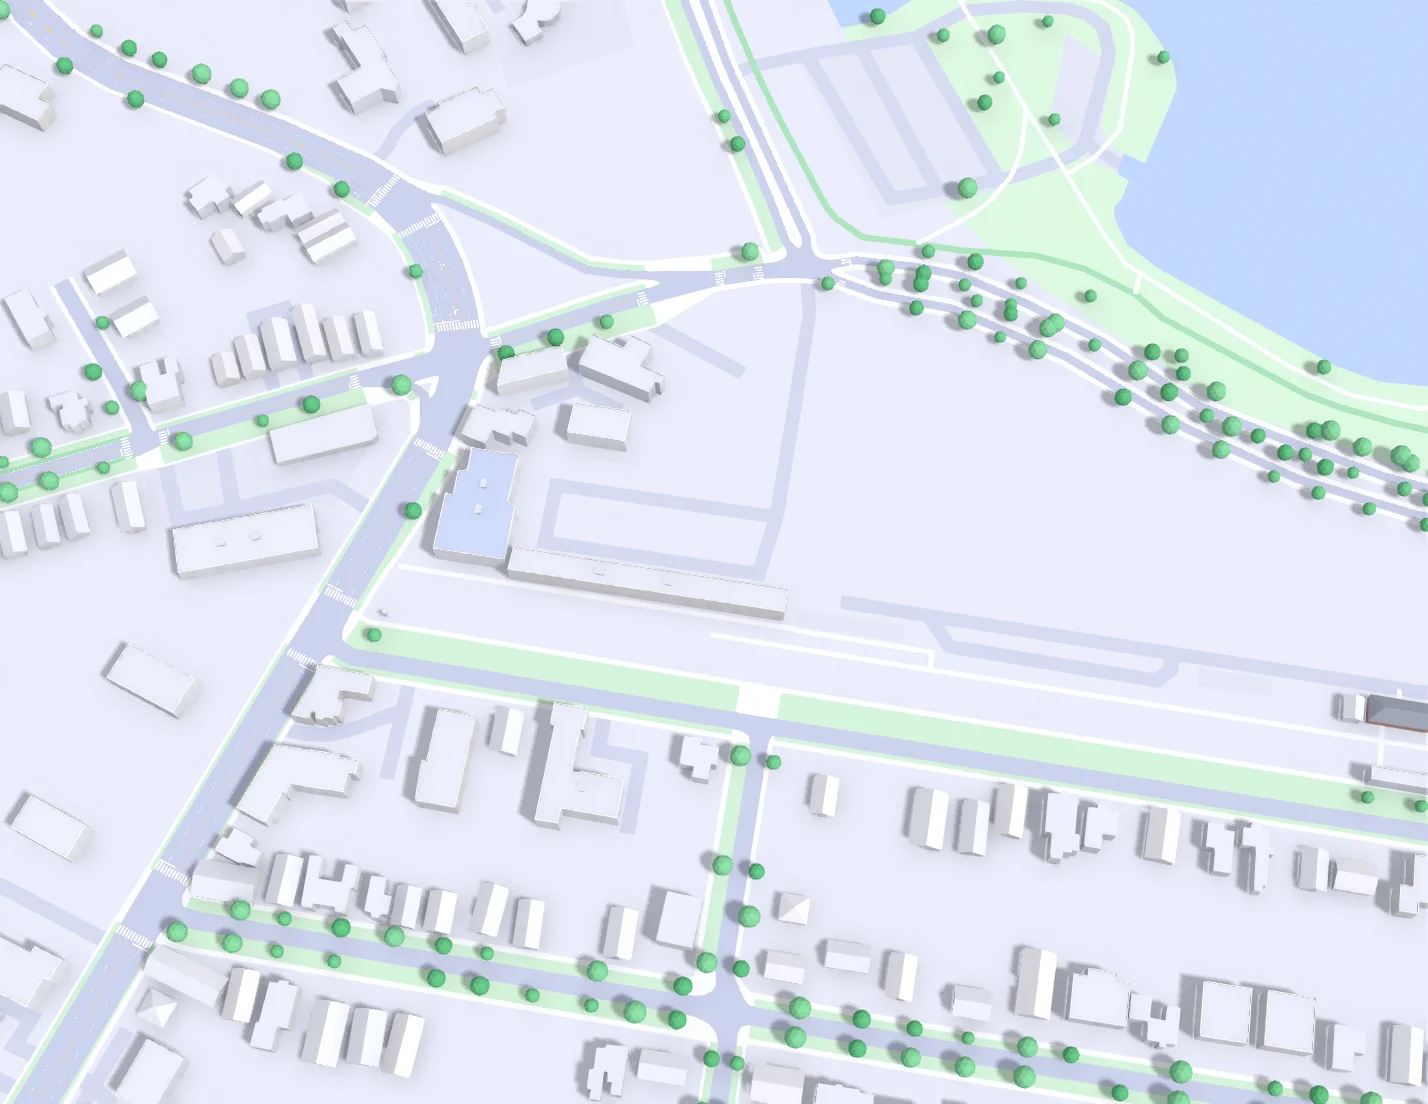
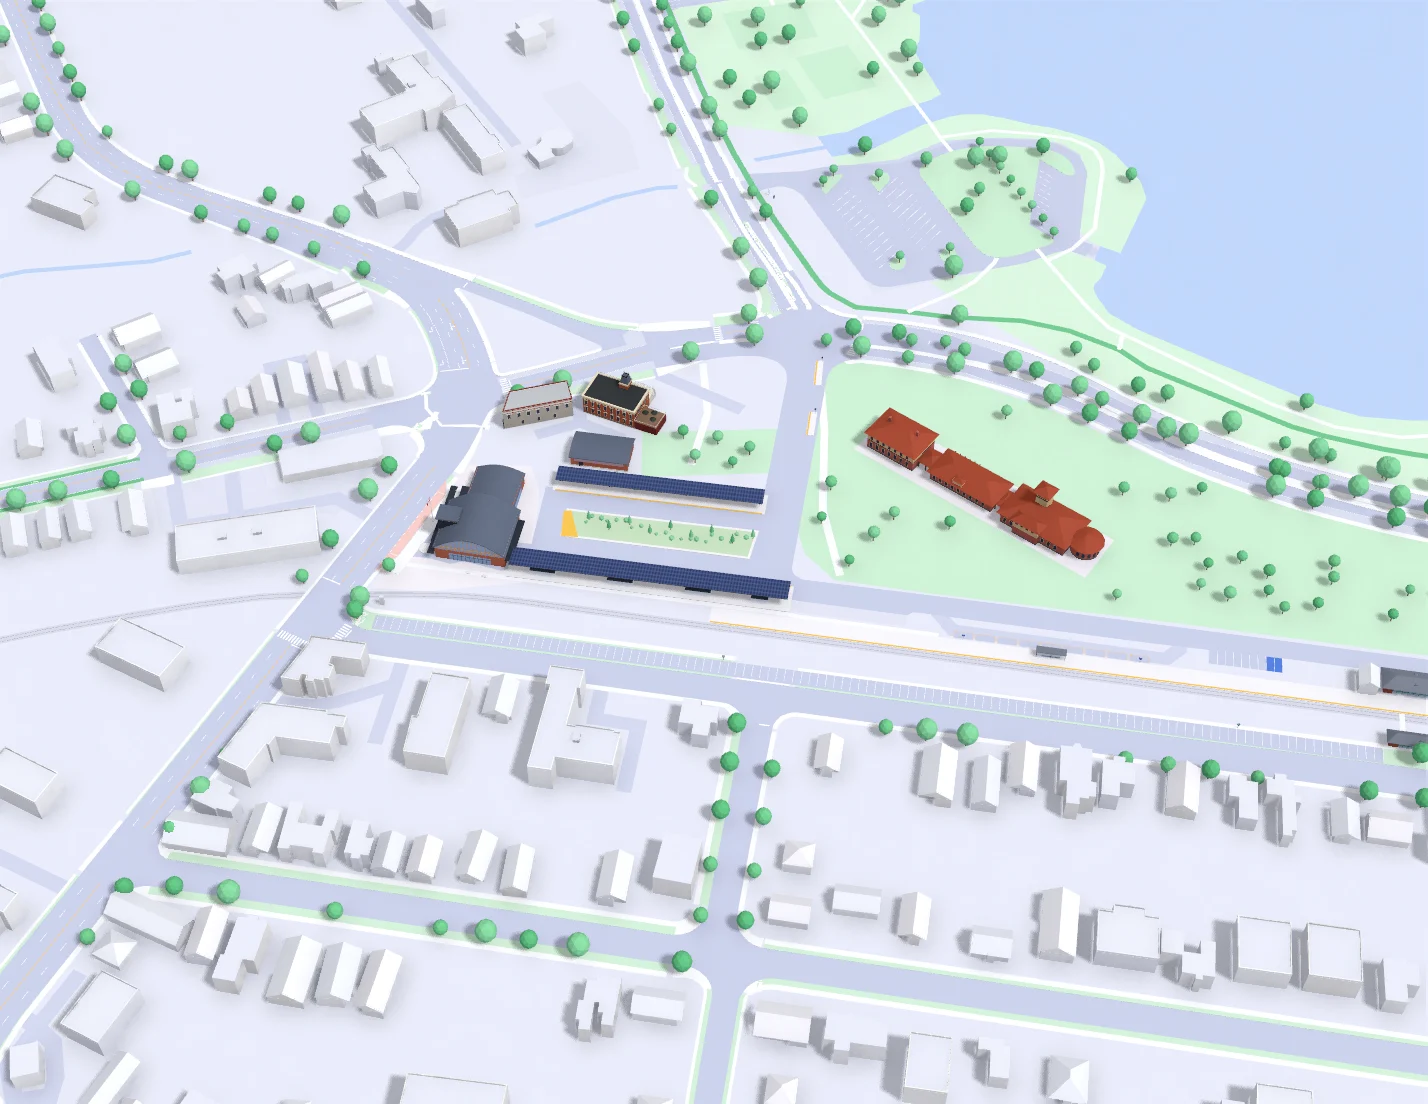
feat(platform): 3D simulator basemap for the terminal TV map
Recaptured the /platform.map base map from the Barrie Simulator at a 40 degree
tilt (north still up), so the TV shows the hand-built terminal, its neighbours,
lawns, Gowan parking and the Essa layby in 3D. The perspective calibration keeps
every pin, label and live vehicle on the ground; Stop 14 and the pick-up point
stay in view at the existing 0.35 m/px.

- capture script: --tilt option, simulator street names hidden (the TV draws its own)
- "You are here" is the red dot only; a ground outline sits beside a 3D building
- the pick-up card now sits above its point with a stem, so the lay-by stays visible

diff --git a/scripts/capture-platform-basemap.js b/scripts/capture-platform-basemap.js
@@ -6,9 +6,11 @@
 // The simulator is a separate project (mike_apps/Barrie-Simulator). Start its
 // dev server first (`npm run dev` there), then run:
 //
-//   node scripts/capture-platform-basemap.js [--url http://localhost:5173/] [--heading 0]
+//   node scripts/capture-platform-basemap.js [--url http://localhost:5173/] [--heading 0] [--tilt 0]
 //
 // heading = compass direction shown at the top of the map (0 = north up).
+// tilt = camera angle from straight down, in degrees, for a 3D view (0 = as far down as the
+// simulator allows; it clamps to about 20). The calibration is a perspective fit either way.
 // The script only moves the simulator's camera and hides its own buses, routes
 // and stops in the browser; it changes nothing in the simulator project.
 //
@@ -30,13 +32,15 @@ const option = (name, fallback) => {
 const WIDTH = 1428;
 const HEIGHT = 1104;
 // About 14% closer than the former Leaflet zoom 18.1 (0.3985 m/px). Closer than
-// this pushes Stop 14 or the passenger pick-up point off the visible map.
+// this pushes Stop 14 or the passenger pick-up point off the visible map (they are
+// about 300 m apart east to west), in the top-down and the 3D (--tilt 40) view alike.
 const METRES_PER_PIXEL = 0.35;
 // Plane centre. Shifted slightly east of the platforms so Stop 14 (west) and the
 // pick-up point (east) both stay inside the visible part of the plane.
 const CENTER = { lat: 44.373974, lon: -79.689174 };
 const SIM_URL = option('url', 'http://localhost:5173/');
 const HEADING = Number(option('heading', '0'));
+const TILT = Number(option('tilt', '0'));
 const OUT_DIR = path.join(__dirname, '..', 'frontend', 'src', 'platform-map');
 
 // Inputs are offsets from the map centre scaled by INPUT_SCALE (about 10 m per unit)
@@ -99,7 +103,7 @@ function applyHomography(h, u, v) {
   await page.waitForFunction(() => window.__controls && window.__controls.current && window.__store, null, { timeout: 90000 });
   await page.waitForTimeout(6000);
   await page.evaluate(() => window.__store.setState((state) => ({
-    layers: { ...state.layers, buses: false, transit: false, stops: false, designRoutes: false, changes: false, landmarks: true },
+    layers: { ...state.layers, buses: false, transit: false, stops: false, designRoutes: false, changes: false, landmarks: true, streetNames: false },
   })));
   await page.addStyleTag({ content: 'body * { visibility: hidden !important; } canvas { visibility: visible !important; }' });
 
@@ -119,7 +123,7 @@ function applyHomography(h, u, v) {
     await page.waitForTimeout(1500);
   }
 
-  await page.evaluate(({ center, mpp, height, headingDeg }) => {
+  await page.evaluate(({ center, mpp, height, headingDeg, tiltDeg }) => {
     const R = 6371008.8;
     const DEG = Math.PI / 180;
     const origin = { lat: 44.3835, lon: -79.685 }; // Barrie-Simulator pipeline/area.ts CITY_ORIGIN
@@ -128,8 +132,8 @@ function applyHomography(h, u, v) {
     const controls = window.__controls.current;
     const camera = controls.object;
     const distance = (height * mpp / 2) / Math.tan((camera.fov * DEG) / 2);
-    // Straight down; the tiny tilt only sets which compass direction is "up".
-    const polar = 0.0001;
+    // A tiny tilt still sets which compass direction is "up" when looking straight down.
+    const polar = Math.max(0.0001, tiltDeg * DEG);
     const theta = -headingDeg * DEG;
     controls.target.set(tx, 0, tz);
     camera.position.set(
@@ -139,7 +143,7 @@ function applyHomography(h, u, v) {
     );
     camera.lookAt(tx, 0, tz);
     controls.update();
-  }, { center: CENTER, mpp: METRES_PER_PIXEL, height: HEIGHT, headingDeg: HEADING });
+  }, { center: CENTER, mpp: METRES_PER_PIXEL, height: HEIGHT, headingDeg: HEADING, tiltDeg: TILT });
   await page.waitForTimeout(8000);
 
   // Project a grid of points through the simulator's own camera for an exact calibration.
@@ -181,6 +185,7 @@ function applyHomography(h, u, v) {
     height: HEIGHT,
     metres_per_pixel: METRES_PER_PIXEL,
     heading: HEADING,
+    tilt: TILT,
     center: CENTER,
     // See fitHomography: u = (lon - center.lon) * input_scale, v = (lat - center.lat) * input_scale.
     input_scale: INPUT_SCALE,

diff --git a/frontend/src/platform-map/main.js b/frontend/src/platform-map/main.js
@@ -136,6 +136,8 @@ const PICKUP_DROPOFF_POINTER_COORDINATES = Object.freeze({
   lat: 44.373639,
   lon: -79.687411,
 });
+// How far above its point the pick-up card sits (screen px).
+const GEOGRAPHIC_CARD_GAP_PX = 70;
 // Terminal building footprint (OpenStreetMap way 1427393969, as used by the Barrie Simulator).
 const TERMINAL_BUILDING_FOOTPRINT = Object.freeze([
   [44.374292, -79.690245], [44.374213, -79.690261], [44.374215, -79.690301], [44.37413, -79.690318],
@@ -611,8 +613,14 @@ function setupPlatformApp() {
         const anchorY = planeRect.top - stageRect.top + planeRect.height * anchor.y / 100;
         const cardWidth = card.getBoundingClientRect().width;
         const cardHeight = card.getBoundingClientRect().height;
-        card.style.left = `${Math.max(cardWidth + 8, Math.min(stageRect.width - 8, anchorX))}px`;
-        card.style.top = `${Math.max(cardHeight / 2 + 8, Math.min(stageRect.height - cardHeight / 2 - 8, anchorY))}px`;
+        // The card sits above its point, so the lay-by lane under it stays in view; a stem
+        // runs down from the card to a dot on the point.
+        const left = Math.max(cardWidth / 2 + 8, Math.min(stageRect.width - cardWidth / 2 - 8, anchorX));
+        const top = Math.max(cardHeight + 8, anchorY - GEOGRAPHIC_CARD_GAP_PX);
+        card.style.left = `${left}px`;
+        card.style.top = `${top}px`;
+        card.style.setProperty('--stem-x', `${anchorX - left}px`);
+        card.style.setProperty('--stem-length', `${Math.max(0, anchorY - top)}px`);
       });
       return;
     }
@@ -942,19 +950,11 @@ function setupPlatformApp() {
     positionMapConnectionCard(card);
   }
 
-  // "You are here": the terminal building outlined in red with a red dot; the legend explains it.
+  // "You are here": a red dot on the terminal building; the legend explains it. The 3D base map
+  // shows the building itself, so it is not outlined (a ground outline sits beside the walls).
   function renderTerminalMarker() {
     const points = TERMINAL_BUILDING_FOOTPRINT.map(([lat, lon]) => projectCoordinate(lat, lon));
     if (points.some((point) => !point)) return;
-    const outline = document.createElementNS(SVG_NS, 'svg');
-    outline.setAttribute('class', 'map-here__outline');
-    outline.setAttribute('viewBox', '0 0 100 100');
-    outline.setAttribute('preserveAspectRatio', 'none');
-    outline.setAttribute('aria-hidden', 'true');
-    const polygon = document.createElementNS(SVG_NS, 'polygon');
-    polygon.setAttribute('points', points.map((point) => `${point.x},${point.y}`).join(' '));
-    outline.appendChild(polygon);
-    mapPlatformLayerEl.appendChild(outline);
     const centre = {
       x: points.reduce((sum, point) => sum + point.x, 0) / points.length,
       y: points.reduce((sum, point) => sum + point.y, 0) / points.length,
@@ -1016,6 +1016,7 @@ function setupPlatformApp() {
     copy.appendChild(createElement('strong', '', 'Passenger'));
     copy.appendChild(createElement('span', '', 'Pick-up / drop-off'));
     dropoff.appendChild(copy);
+    dropoff.appendChild(createElement('span', 'map-dropoff-card__stem'));
     mountManualPointer(dropoff, null, PICKUP_DROPOFF_POINTER_COORDINATES);
     refreshManualPointer(dropoff);
   }

diff --git a/frontend/src/platform-map/styles.css b/frontend/src/platform-map/styles.css
@@ -313,24 +313,7 @@ body {
   box-shadow: 0 3px 7px rgba(19, 48, 62, 0.24);
 }
 
-/* "You are here": the terminal building outlined in red, with a red dot. */
-.map-here__outline {
-  position: absolute;
-  inset: 0;
-  width: 100%;
-  height: 100%;
-  overflow: visible;
-  pointer-events: none;
-}
-
-.map-here__outline polygon {
-  fill: rgba(212, 38, 44, 0.14);
-  stroke: #d4262c;
-  stroke-width: 4;
-  stroke-linejoin: round;
-  vector-effect: non-scaling-stroke;
-}
-
+/* "You are here": a red dot on the terminal building. */
 .map-here__dot {
   position: absolute;
   width: clamp(18px, 3cqw, 30px);
@@ -989,7 +972,37 @@ body {
   z-index: 5;
   width: clamp(138px, 16cqw, 170px);
   min-height: 58px;
-  transform: translate(-100%, -50%);
+  transform: translate(-50%, -100%);
+}
+
+/* Stem from the card's bottom edge down to a dot on the pick-up point. */
+.map-dropoff-card__stem {
+  display: none;
+}
+
+.map-dropoff-card[data-geographic-card="true"] .map-dropoff-card__stem {
+  position: absolute;
+  top: 100%;
+  left: calc(50% + var(--stem-x, 0px));
+  display: block;
+  width: 3px;
+  height: var(--stem-length, 0px);
+  background: #006fb9;
+  transform: translateX(-50%);
+}
+
+.map-dropoff-card[data-geographic-card="true"] .map-dropoff-card__stem::after {
+  content: "";
+  position: absolute;
+  bottom: 0;
+  left: 50%;
+  width: 12px;
+  height: 12px;
+  border: 3px solid #fff;
+  border-radius: 50%;
+  background: #006fb9;
+  box-shadow: 0 1px 4px rgba(0, 0, 0, 0.35);
+  transform: translate(-50%, 50%);
 }
 
 .map-dropoff-card__icon {
